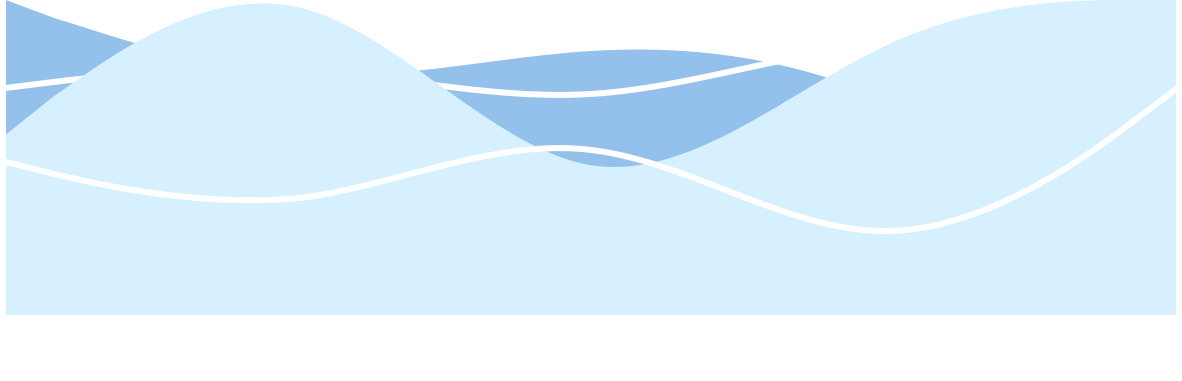
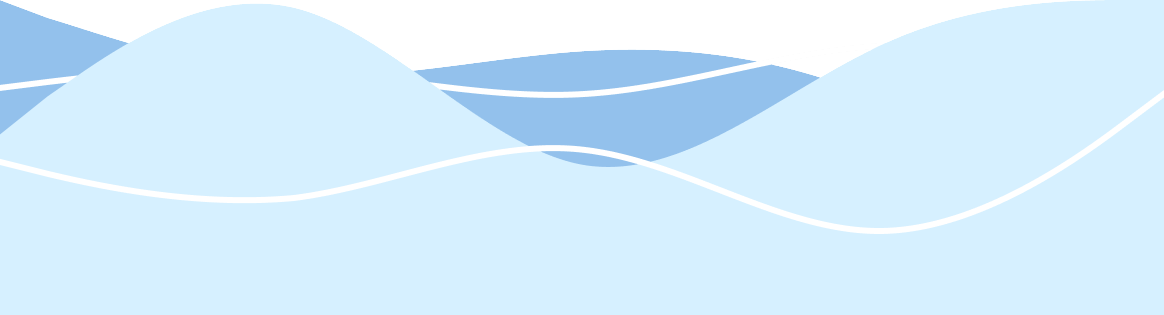
Updated locations page with images

diff --git a/tidepool-explorer/app/locations/page.tsx b/tidepool-explorer/app/locations/page.tsx
@@ -22,7 +22,7 @@ const locationDetails = [
     ],
     accessPoint: "Stairs at corner of Circle Way or ramp at Cliff Dr. & Circle Way intersection",
     parking: "Residential parking or Trolley Stop at Cliff Drive and Marine Drive intersection",
-    image: "/temp.jpg"
+    image: "/locations/Crescent-Bay.jpg"
   },
   {
     name: "Goff Island",
@@ -31,7 +31,7 @@ const locationDetails = [
     coordinates: [`33°30'49"N 117°45'37"W`],
     accessPoint: "From ramp at the end of Treasure Island Park trail",
     parking: "Lot 7 and Lot 8 or metered parking on Wesley Drive",
-    image: "/temp.jpg"
+    image: "/locations/Goff Island.jpg"
   },
   {
     name: "Heisler Park",
@@ -40,7 +40,7 @@ const locationDetails = [
     coordinates: [`33°32'33"N 117°47'20"W`],
     accessPoint: "Stairs in front of Las Brisas or walk along Main Beach",
     parking: "Metered parking along Cliff Drive",
-    image: "/temp.jpg"
+    image: "/locations/Heisler Park.png"
   },
   {
     name: "Shaws Cove (North and South)",
@@ -55,7 +55,7 @@ const locationDetails = [
     ],
     accessPoint: "Stairs at Fairview St. & Cliff Dr.",
     parking: "Residential parking or Trolley Stop at Cliff Drive and Fairview Street Intersection",
-    image: "/temp.jpg"
+    image: "/locations/Shaws-Cove.jpg"
   },
   {
     name: "Treasure Island",
@@ -64,7 +64,7 @@ const locationDetails = [
     coordinates: [`33°30'48"N 117°45'28"W`],
     accessPoint: "Stairs or ramp along Treasure Island Park trail",
     parking: "Lot 7 and Lot 8 or metered parking on Wesley Drive",
-    image: "/temp.jpg"
+    image: "/locations/Treasure Island.png"
   },
   {
     name: "Wood's Cove",
@@ -73,7 +73,7 @@ const locationDetails = [
     coordinates: [`33°31'35"N 117°46'14"W`],
     accessPoint: "Diamond St. or Pearl St.",
     parking: "Trolley Stop at PCH and Diamond Street Intersection or nearby metered parking",
-    image: "/temp.jpg"
+    image: "/locations/Woods-Cove.jpg"
   },
 ]
 
@@ -86,7 +86,7 @@ function Locations() {
       </div>
       {/* Waves */}
       <div className="relative h-[200px] md:h-[400px] lg:h-[600px] bg-cover bg-center">
-        <Image src="/locations/WavesCopy.png" alt="Waves" layout="fill" objectFit="cover" />
+        <Image src="/locations/Waves.png" alt="Waves" layout="fill" objectFit="cover" />
       </div>
 
       {/* Locations section */}
@@ -98,7 +98,7 @@ function Locations() {
           {locationDetails.map((location, index) => (
             <AccordionItem key={index} value={`item-${index}`} className={index < locationDetails.length - 1 ? "mb-6" : ""}>
               {/* Locations accordion image */}
-              <div className="relative h-[200px] flex items-center justify-center bg-cover bg-center">
+              <div className="relative h-[200px] lg:h-[400px] flex items-center justify-center bg-cover bg-center">
                 <Image src={location.image} alt={`${location.name} Picture`} layout="fill" objectFit="cover" className="rounded-xl" />
               </div>
               <AccordionTrigger>
